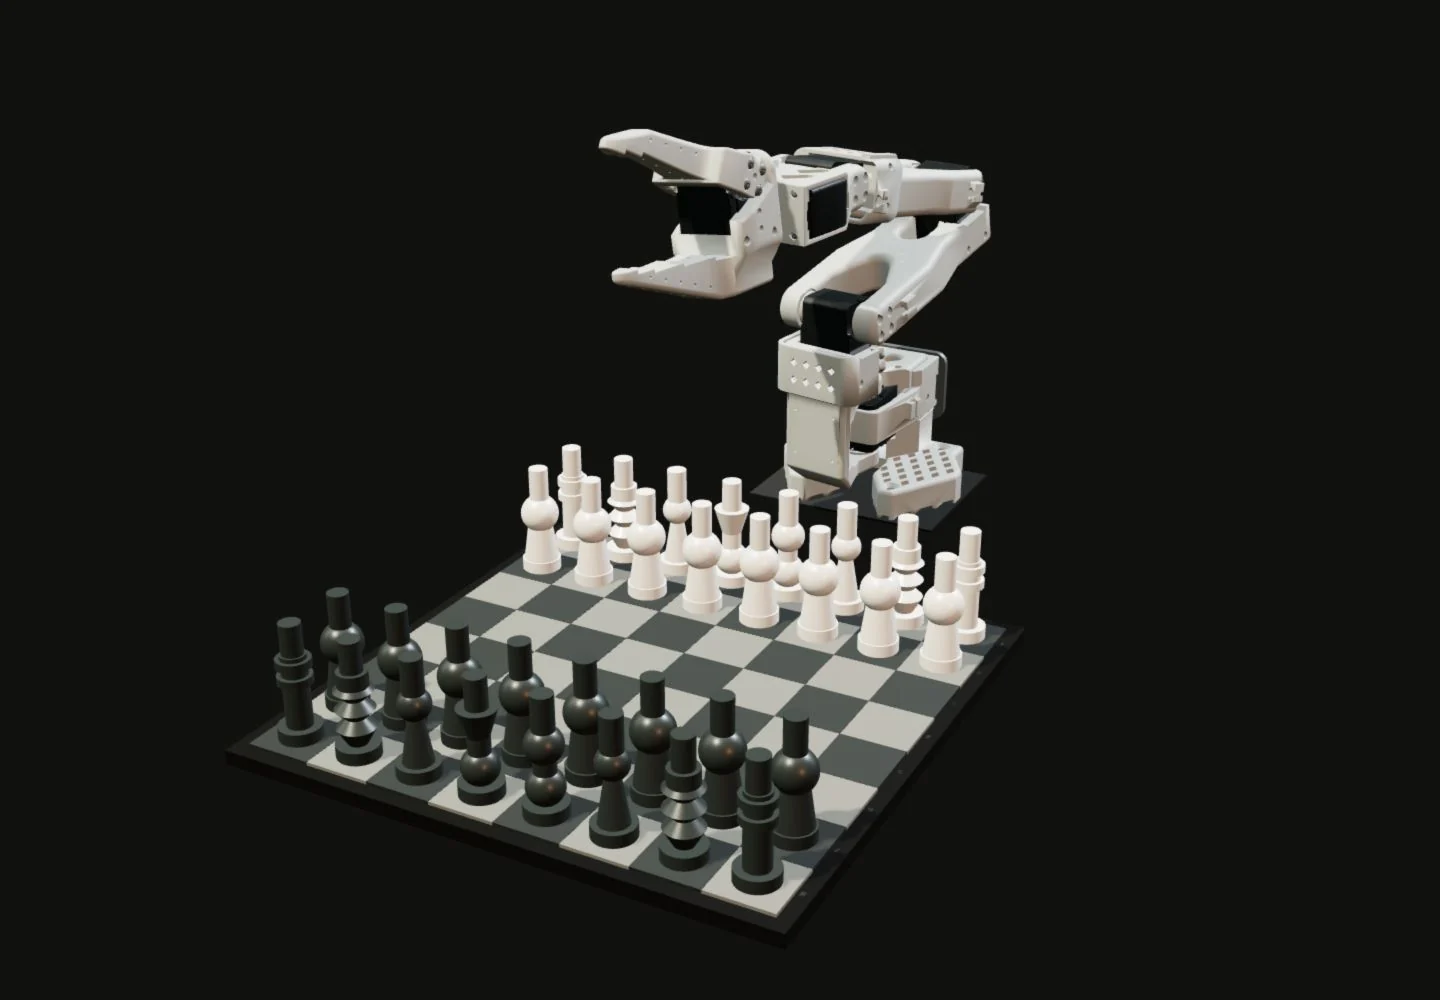
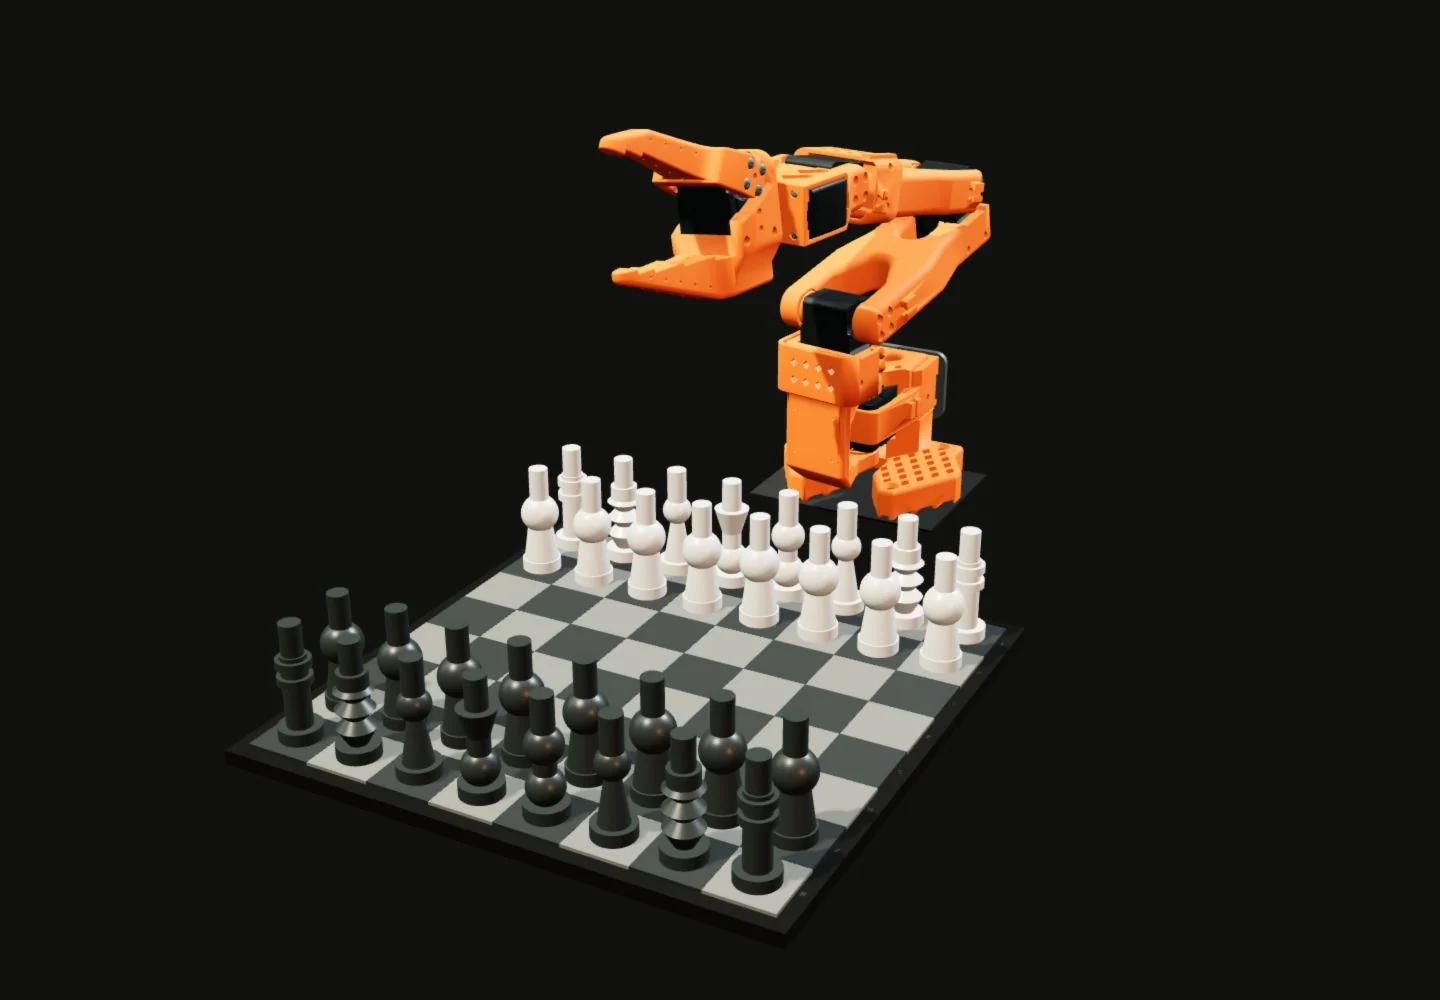
Use orange robot in Studio view and clarify magnetic placement

Changed region(s): [[0.4062, 0.124, 0.6875, 0.527]]

diff --git a/index.html b/index.html
@@ -11,7 +11,7 @@
 <link rel="preload" href="assets/fonts/panchang-500-normal.woff2" as="font" type="font/woff2" crossorigin>
 <link rel="stylesheet" href="fonts.css">
 <link rel="stylesheet" href="style.css">
-<link rel="stylesheet" href="chess.css?v=cad-3">
+<link rel="stylesheet" href="chess.css?v=studio-1">
 </head>
 <body>
 
@@ -130,13 +130,13 @@
         <h2 id="chess-title">Designed to move.</h2>
         <p class="chess-deck">Drawn from scratch. Printed for the real world.</p>
         <div class="chess-materials" role="group" aria-label="Scene palette">
-          <button type="button" data-palette="graphite" aria-pressed="true"><span class="chess-swatch graphite" aria-hidden="true"></span>Graphite</button>
-          <button type="button" data-palette="original" aria-pressed="false"><span class="chess-swatch original" aria-hidden="true"></span>Original</button>
+          <button type="button" data-palette="graphite" aria-pressed="true"><span class="chess-swatch graphite" aria-hidden="true"></span>Studio</button>
+          <button type="button" data-palette="original" aria-pressed="false"><span class="chess-swatch original" aria-hidden="true"></span>Real-world</button>
         </div>
       </div>
 
       <div class="chess-viewport" role="img" aria-label="The custom chess pieces on an eight-by-eight board, with the SO-101 robot arm behind it.">
-        <img class="chess-poster" src="assets/chess/poster.webp?v=cad-3" width="1440" height="1000" alt="" loading="lazy">
+        <img class="chess-poster" src="assets/chess/poster.webp?v=studio-1" width="1440" height="1000" alt="" loading="lazy">
         <div class="chess-canvas" aria-hidden="true"></div>
         <div class="chess-labels" aria-hidden="true"></div>
       </div>
@@ -245,8 +245,8 @@
           <div>
             <h3 class="log-title">Pieces and camera mount done</h3>
             <p class="log-desc">
-              All pieces printed, each with a magnet so the arm has an easier time
-              grabbing them. Plus a top-down mount for the camera above the board.
+              All pieces printed, with magnets that help the arm place them
+              precisely on their squares. Plus a top-down mount for the camera above the board.
             </p>
           </div>
         </a>
@@ -402,6 +402,6 @@
 </template>
 
 <script src="script.js"></script>
-<script type="module" src="chess.js?v=cad-3"></script>
+<script type="module" src="chess.js?v=studio-1"></script>
 </body>
 </html>

diff --git a/robot.js b/robot.js
@@ -1,6 +1,6 @@
 import { robotPose } from './robot-motion.mjs?v=cad-3';
 import { ease } from './chess-motion.mjs?v=cad-3';
-import { PALETTES } from './chess-palettes.mjs?v=cad-3';
+import { PALETTES } from './chess-palettes.mjs?v=studio-1';
 
 export async function createRobot(THREE, load = fetch) {
   const baseURL = new URL('./assets/robot/', import.meta.url);
@@ -28,12 +28,12 @@ export async function createRobot(THREE, load = fetch) {
   cad.rotation.x = -Math.PI / 2;
   cad.scale.setScalar(1 / 32);
   root.add(cad);
-  const shellColour = new THREE.Color(0xa6aba3);
-  const shellQuiet = new THREE.Color(0x727b75);
+  const shellColour = new THREE.Color(PALETTES.graphite.robot);
+  const shellQuiet = new THREE.Color(PALETTES.graphite.robotDim);
   const colours = Object.values(PALETTES).map(palette => ({
     shell: new THREE.Color(palette.robot), quiet: new THREE.Color(palette.robotDim),
   }));
-  const shell = new THREE.MeshStandardMaterial({ color: shellColour, roughness: 0.48, metalness: 0.16 });
+  const shell = new THREE.MeshStandardMaterial({ color: shellColour, roughness: 0.61, metalness: 0 });
   const servo = new THREE.MeshStandardMaterial({ color: 0x202626, roughness: 0.36, metalness: 0.28 });
   const metal = new THREE.MeshStandardMaterial({ color: 0x858d8b, roughness: 0.3, metalness: 0.7 });
   const materials = { shell, servo, metal };
@@ -86,8 +86,6 @@ export async function createRobot(THREE, load = fetch) {
       if (mix !== lastMix) {
         shellColour.lerpColors(colours[0].shell, colours[1].shell, mix);
         shellQuiet.lerpColors(colours[0].quiet, colours[1].quiet, mix);
-        shell.roughness = .48 + mix * .13;
-        shell.metalness = .16 * (1 - mix);
       }
       const orbit = ease(.15, .35, progress) * (1 - ease(.8, .98, progress));
       shell.color.copy(shellColour).lerp(shellQuiet, orbit);

diff --git a/chess.js b/chess.js
@@ -1,5 +1,5 @@
 import { PIECES, piecePose, floatOffset, orbitPresence, ease, clamp, followScroll } from './chess-motion.mjs?v=cad-3';
-import { PALETTES, paletteFromSearch, paletteURL } from './chess-palettes.mjs?v=cad-3';
+import { PALETTES, paletteFromSearch, paletteURL } from './chess-palettes.mjs?v=studio-1';
 import { loadChessGeometry, createChessSet, pixelRatioFor, frameDelta } from './chess-render.mjs?v=cad-3';
 
 const section = document.querySelector('.chess-study');
@@ -24,7 +24,7 @@ function selectPalette(key, updateURL = true) {
   section.dataset.palette = selectedPalette;
   paletteButtons.forEach(button => button.setAttribute('aria-pressed', String(button.dataset.palette === selectedPalette)));
   if (!section.classList.contains('is-ready')) {
-    section.querySelector('.chess-poster').src = `${PALETTES[selectedPalette].poster}?v=cad-3`;
+    section.querySelector('.chess-poster').src = `${PALETTES[selectedPalette].poster}?v=studio-1`;
   }
   if (updateURL) history.replaceState(null, '', paletteURL(location.href, selectedPalette));
   wakeScene();
@@ -63,7 +63,7 @@ async function init() {
   try {
     const [THREE, { createRobot }] = await Promise.all([
       import('./assets/vendor/three/three.module.min.js'),
-      import('./robot.js?v=cad-3'),
+      import('./robot.js?v=studio-1'),
     ]);
     const narrow = () => viewport.clientWidth < 800;
     renderer = new THREE.WebGLRenderer({ alpha: true, antialias: true, powerPreference: 'high-performance' });

diff --git a/chess.css b/chess.css
@@ -50,7 +50,7 @@
 .chess-materials button:hover { color: var(--ink); background: #ffffff0b; }
 .chess-materials button:focus-visible { outline: 1px solid var(--signal); outline-offset: 4px; }
 .chess-swatch { width: 12px; height: 12px; display: inline-block; opacity: .85; }
-.chess-swatch.graphite { background: linear-gradient(90deg, #e3dfd2 50%, #444b45 50%); }
+.chess-swatch.graphite { background: linear-gradient(90deg, #ff6a13 34%, #e3dfd2 34% 67%, #444b45 67%); }
 .chess-swatch.original { background: linear-gradient(90deg, #ff6a13 34%, #57cedb 34% 67%, #f29bbf 67%); }
 .chess-viewport { position: absolute; inset: 100px 0 64px; }
 .chess-canvas, .chess-poster, .chess-labels { position: absolute; inset: 0; width: 100%; height: 100%; }

diff --git a/assets/chess/README.md b/assets/chess/README.md
@@ -21,9 +21,9 @@ Serve the repository using `python -m http.server 8765 --bind 127.0.0.1`, then o
 
 Run `node scripts/test-chess.mjs` to check source geometry, path continuity, clearance, the full orbit, axial rotation, and exact landing. `node scripts/test-chess-render.mjs` checks lossless packed geometry, original face normals, all 32 square assignments, batching, palette isolation and framebuffer budgets. Rebuild the packed geometry with `node scripts/prepare-chess.mjs`. The timeline is in `../../chess-motion.mjs`; rendering and lifecycle management are in `../../chess.js`; responsive presentation is in `../../chess.css`.
 
-Graphite remains the default: a neutral board, ivory pieces and charcoal opponents. The accessible Graphite / Original toggle changes materials in place, preserving scroll position and animation. The optional `?palette=original#chess-study` URL opens the physical colour study directly; normal visits always start in Graphite. No preference is stored.
+Studio is the default: a neutral board, ivory pieces, charcoal opponents and an orange robot. The accessible Studio / Real-world toggle changes board and piece materials in place, preserving scroll position and animation. The optional `?palette=original#chess-study` URL opens the physical colour study directly; normal visits always start in Studio. The internal palette keys remain `graphite` / `original` for link compatibility. No preference is stored. The orange robot retains the same material finish in both views.
 
-Original uses Bambu PLA Basic Orange 10300 (`#FF6A13`) for the complete printed robot, from the [official Bambu PLA Basic colour reference](https://store.bblcdn.eu/s8/default/903b60b06ac142e9b1b49ad53cfa4c82/Bambu_PLA_Basic_Hex_Code.pdf). The opponent pieces use the warm brown (`#754322`) requested from the earlier robot base. Tiffany blue (`#57CEDB`) and pink (`#F29BBF`) are visually adjusted from the supplied TECBEARS photographs for stronger colour; they are not measured filament specifications. Material brightness compensates for the studio lighting, including the stronger illumination of the foreground brown pieces. White pieces retain their existing finish. The palette values live in `../../chess-palettes.mjs`.
+Both views use Bambu PLA Basic Orange 10300 (`#FF6A13`) for the complete printed robot, from the [official Bambu PLA Basic colour reference](https://store.bblcdn.eu/s8/default/903b60b06ac142e9b1b49ad53cfa4c82/Bambu_PLA_Basic_Hex_Code.pdf). In Real-world, the opponent pieces use the warm brown (`#754322`) requested from the earlier robot base. Tiffany blue (`#57CEDB`) and pink (`#F29BBF`) are visually adjusted from the supplied TECBEARS photographs for stronger colour; they are not measured filament specifications. Material brightness compensates for the studio lighting, including the stronger illumination of the foreground brown pieces. White pieces retain their existing finish. The palette values live in `../../chess-palettes.mjs`.
 
 When scrolling settles in the orbit, the six pieces float asynchronously by less than 1 mm in either direction, over roughly six-second cycles. This fades out while scrolling and before landing. Hovering an actual STL surface eases that piece to 106% scale with a subtle orange material tint. Other pieces retain their own materials. Touch scrolling is not intercepted.
 

diff --git a/assets/robot/README.md b/assets/robot/README.md
@@ -29,7 +29,7 @@ same uncompressed geometry. Everything loads from this repository, with no
 remote model service.
 
 The mounting shim is thin, close-fitting and matte. Every printed part, including
-the complete static CAD base, shares the same white or orange shell material.
+the complete static CAD base, shares the same orange shell material in both views.
 Only actual servo housings and hardware remain dark/metallic. The white chess set
 starts on the robot's side. Settled joint transforms are reused during idle
 floating and colour transitions. Palette changes never alter the joint poses.
